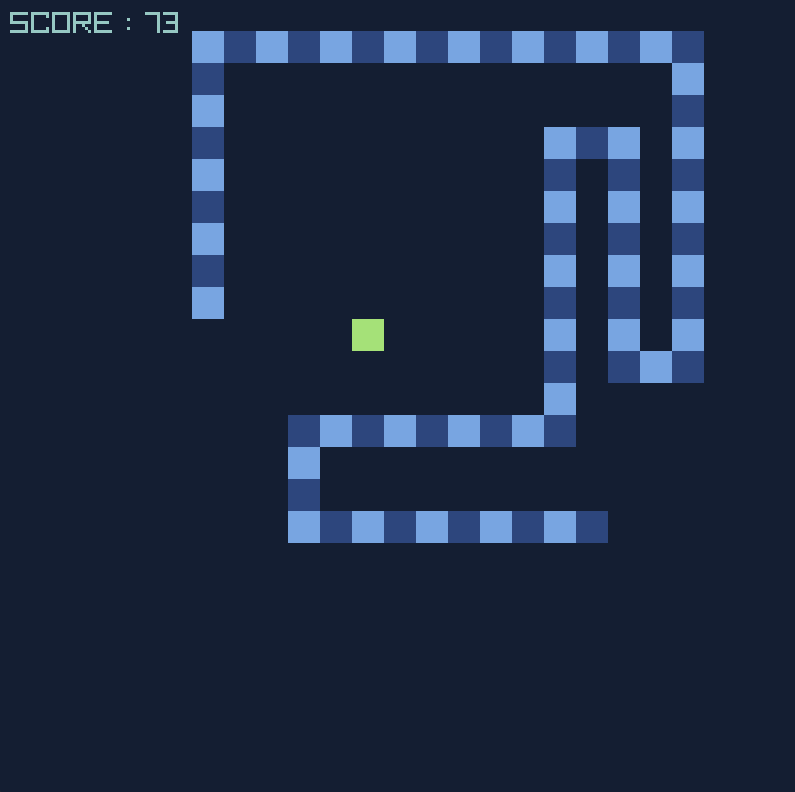
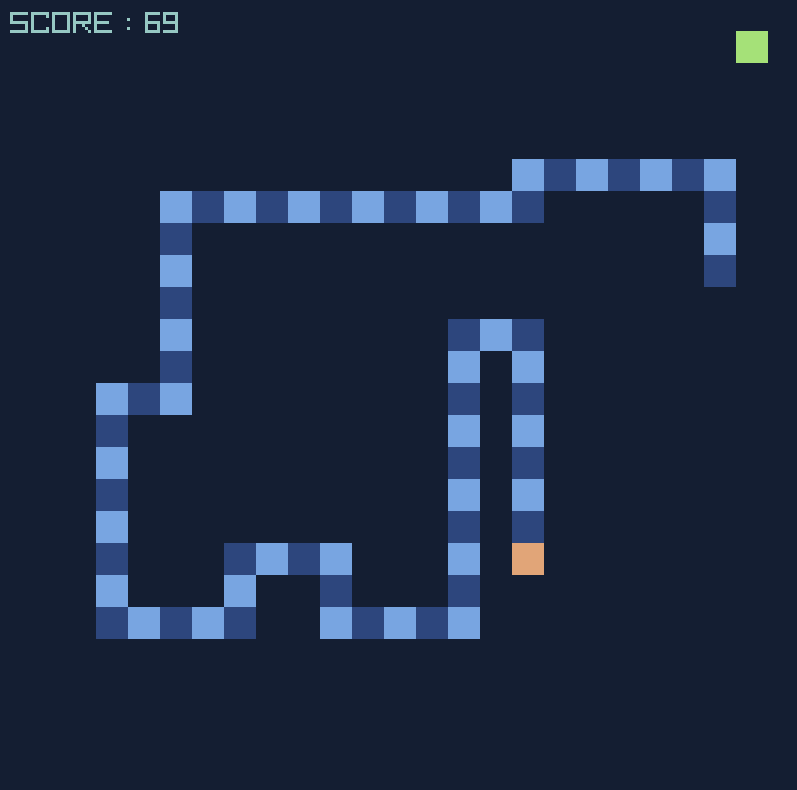
change snake colors

Changed region(s): [[0.1208, 0.0304, 0.966, 0.8203], [0.4226, 0.3949, 0.483, 0.4557], [0.1811, 0.0, 0.2113, 0.0608]]

diff --git a/main.c b/main.c
@@ -23,8 +23,9 @@ bool gameStarted = false;
 int  fps         = 10;
 
 const Color bg         = { 20,  30,  50, 255};
-const Color snakeWhite = {120, 165, 225, 255};
-const Color snakeGrey  = { 45,  70, 125, 255};
+const Color snakeHead  = {225, 165, 120, 255};
+const Color snakeLight = {120, 165, 225, 255};
+const Color snakeDark  = { 45,  70, 125, 255};
 const Color foodColor  = {165, 225, 120, 255};
 const Color textDark   = { 75,  85, 105, 255};
 const Color textOrange = {210, 135, 110, 255};
@@ -176,15 +177,15 @@ void draw() {
 
 	DrawRectangle(food.x * widthByGrid, food.y * heightByGrid, widthByGrid, heightByGrid, foodColor);
 
-	DrawRectangle(head.x * widthByGrid, head.y * heightByGrid, widthByGrid, heightByGrid, snakeWhite);
-
 	for(int i=0; i<score; i++) {
 		if(i % 2 == 0){
-			DrawRectangle(segments[i].x * widthByGrid, segments[i].y * heightByGrid, widthByGrid, heightByGrid, snakeGrey);
+			DrawRectangle(segments[i].x * widthByGrid, segments[i].y * heightByGrid, widthByGrid, heightByGrid, snakeDark);
 		} else {
-			DrawRectangle(segments[i].x * widthByGrid, segments[i].y * heightByGrid, widthByGrid, heightByGrid, snakeWhite);
+			DrawRectangle(segments[i].x * widthByGrid, segments[i].y * heightByGrid, widthByGrid, heightByGrid, snakeLight);
 		}
 	}
+
+	DrawRectangle(head.x * widthByGrid, head.y * heightByGrid, widthByGrid, heightByGrid, snakeHead);
 
 	DrawText(scoreStr, 10, 10, 30, textGreen);
 
